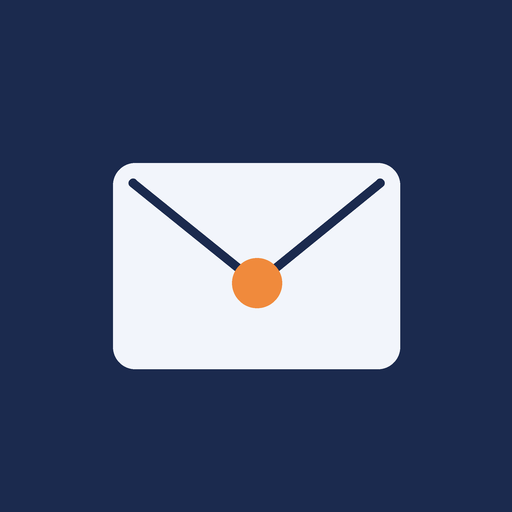
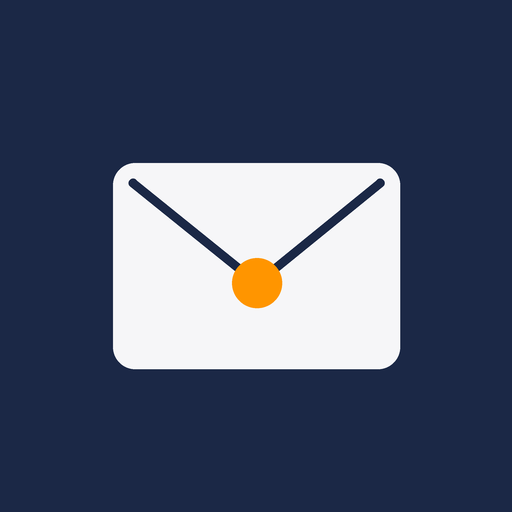
색상 변경: Kerry님이 고른 조합 적용 (네이비 #1B2846, 등록 #2F5FD0, 금액 #EDEDED, 포인트 #FF9500), 아이콘·테마색 갱신, SW v9
Claude-Session: https://claude.ai/code/session_01FkaSdFgY2f1Ht2HbCiHGTs

Changed region(s): [[0.4375, 0.5, 0.5625, 0.625]]

diff --git a/index.html b/index.html
@@ -4,7 +4,7 @@
   <meta charset="utf-8">
   <meta name="viewport" content="width=device-width, initial-scale=1, viewport-fit=cover">
   <title>축의금 접수</title>
-  <meta name="theme-color" content="#1b2a4e">
+  <meta name="theme-color" content="#1B2846">
   <meta name="apple-mobile-web-app-capable" content="yes">
   <meta name="mobile-web-app-capable" content="yes">
   <meta name="apple-mobile-web-app-title" content="축의금 접수">
@@ -14,24 +14,26 @@
   <link rel="icon" type="image/png" href="icon-192.png">
   <style>
     :root {
-      /* 색 역할 (Material 3 방식) — 네이비 기준색에서 파생, 글자 대비 4.5:1 이상 */
-      --surface: #f2f5fb;            /* 앱 배경 */
+      /* 색 역할 — Kerry님이 고른 조합 (기준색에서 면·테두리 색을 파생). 글자 대비 4.5:1 이상 */
+      --surface: #F6F6F8;            /* 앱 배경 */
       --surface-card: #fff;          /* 카드 */
-      --surface-tonal: #eaf0fc;      /* 톤 버튼·보조 면 */
-      --on-surface: #1b2a4e;         /* 본문 글자 */
-      --on-surface-variant: #5a6682; /* 보조 글자 */
-      --outline: #cbd3e6;            /* 테두리 */
-      --outline-soft: #dfe5f2;       /* 구분선 */
-      --primary: #137a51;            /* 핵심 동작(등록·확인) */
+      --surface-tonal: #EDEEF0;      /* 톤 버튼·보조 면 */
+      --on-surface: #1B2846;         /* 본문 글자 */
+      --on-surface-variant: #646D81; /* 보조 글자 */
+      --outline: #D1D4DA;            /* 테두리 */
+      --outline-soft: #E1E3E7;       /* 구분선 */
+      --press: #DDDFE3;              /* 눌렀을 때 */
+      --primary: #2F5FD0;            /* 핵심 동작(등록·확인) */
       --on-primary: #fff;
-      --secondary: #1b2a4e;          /* 보조 강조(앱 바·더하기) */
+      --success: #137a51;            /* 완료 안내 글자 */
+      --secondary: #1B2846;          /* 보조 강조(더하기·설치) */
       --on-secondary: #fff;
-      --tertiary: #f08a3c;           /* 포인트(포커스·선택) */
-      --tertiary-container: #fff0e3;
-      --amount: #fff3cf; --amount-line: #f2c14e; --amount-press: #ffe39a; /* 금액 버튼 */
+      --tertiary: #FF9500;           /* 포인트(포커스·선택) */
+      --tertiary-container: #FFF2E0;
+      --amount: #EDEDED; --amount-line: #C7C7C7; --amount-press: #DFDFDF; /* 금액 버튼 */
       --error: #c0392b; --error-container: #fdecea;
-      --groom: #2f5fd0; --groom-soft: #8fb0ff; --bride: #8a4fd0; --bride-soft: #c9a6f5;
-      --navy: #1b2a4e; --navy-deep: #121c38;
+      --groom: #3B6FD8; --groom-soft: #9DB7EC; --bride: #B0508A; --bride-soft: #D8A8C4;
+      --navy: #1B2846; --navy-deep: #121A2E;
       /* 모양·크기 */
       --r-card: 20px; --r-btn: 14px; --r-field: 14px;
       --touch: 48px;                 /* 최소 터치 높이 */
@@ -54,7 +56,7 @@
     .btn-filled { background: var(--primary); color: var(--on-primary); font-weight: 800; }
     .btn-filled:active { filter: brightness(.9); }
     .btn-tonal { background: var(--surface-tonal); color: var(--on-surface); font-weight: 700; }
-    .btn-tonal:active { background: #dbe5f8; }
+    .btn-tonal:active { background: var(--press); }
     .btn-outlined { border: 2px solid var(--outline); background: var(--surface-card); font-weight: 700; }
     .btn-outlined:active { background: var(--surface-tonal); }
     .btn-text { color: var(--groom); font-weight: 700; padding: 0 12px; }
@@ -68,15 +70,15 @@
       gap: 1px; background: var(--navy-deep); color: #fff; padding-top: env(safe-area-inset-top);
     }
     .stat { background: var(--navy); padding: 10px 16px; display: flex; flex-direction: column; min-width: 0; }
-    .stat .k { font-size: 13px; color: #b9c3dd; }
+    .stat .k { font-size: 13px; color: #c4cade; }
     .stat .k small { font-size: 12px; margin-left: 4px; color: #ffd9b8; white-space: nowrap; }
     .stat strong { font-size: 26px; line-height: 1.2; font-variant-numeric: tabular-nums; white-space: nowrap; }
-    .stat.side-label { border-top: 4px solid #6b7897; }
+    .stat.side-label { border-top: 4px solid #6f7890; }
     .stat.side-label strong { font-size: 22px; }
     body[data-side=groom] .stat.side-label { border-top-color: var(--groom-soft); }
     body[data-side=bride] .stat.side-label { border-top-color: var(--bride-soft); }
 
-    .install-bar { display: flex; align-items: center; flex-wrap: wrap; gap: 8px 12px; padding: 10px 16px; background: #eaf0fe; border-bottom: 1px solid #cddafa; font-size: 15px; }
+    .install-bar { display: flex; align-items: center; flex-wrap: wrap; gap: 8px 12px; padding: 10px 16px; background: var(--surface-tonal); border-bottom: 1px solid var(--outline-soft); font-size: 15px; }
     .install-bar[hidden], .overlay[hidden] { display: none; }
     .install-bar span { flex: 1 1 240px; }
     .install-btn { padding: 0 18px; background: var(--secondary); color: var(--on-secondary); font-weight: 800; }
@@ -116,13 +118,13 @@
     .meal-grid { display: grid; grid-template-columns: 1fr 1fr; gap: 12px; }
     .stepper-name { display: block; margin-bottom: 4px; font-weight: 800; }
     .stepper { display: grid; grid-template-columns: 56px 1fr 56px; gap: 6px; align-items: center; }
-    .stepper button { min-height: 56px; font-size: 30px; font-weight: 700; background: var(--surface-tonal); border: 2px solid #cfdaf1; }
+    .stepper button { min-height: 56px; font-size: 30px; font-weight: 700; background: var(--surface-tonal); border: 2px solid var(--outline); }
     .stepper output { text-align: center; font-size: 26px; font-weight: 800; font-variant-numeric: tabular-nums; white-space: nowrap; }
 
     /* 등록 줄: 입력 카드가 길어도 항상 화면 아래에 고정되어 보인다 */
     .submit-bar { position: sticky; bottom: 0; margin: 0 -18px; padding: 10px 18px 18px; background: var(--surface-card); border-radius: 0 0 var(--r-card) var(--r-card); box-shadow: 0 -8px 10px -8px rgba(27,42,78,.18); }
     .msg { min-height: 1.4em; margin: 0 0 6px; color: var(--error); font-weight: 700; }
-    .msg.ok { color: var(--primary); }
+    .msg.ok { color: var(--success); }
     .msg:empty { display: none; }
     .primary { width: 100%; min-height: 68px; font-size: 22px; }
 
@@ -154,7 +156,7 @@
     }
     .toast:not(:has(button)) { padding-right: 18px; }
     .toast[hidden] { display: none; }
-    .toast-btn { padding: 0 14px; color: #ffb347; font-weight: 800; }
+    .toast-btn { padding: 0 14px; color: #FFB347; font-weight: 800; }
 
     .overlay { position: fixed; inset: 0; z-index: 30; display: flex; align-items: center; justify-content: center; padding: 16px; background: rgba(0,0,0,.45); overflow-y: auto; }
     .sheet { width: 100%; max-width: 460px; background: var(--surface-card); border-radius: 28px; padding: 24px; margin: auto; }
@@ -173,7 +175,7 @@
     #export-dialog .row .btn-outlined { min-height: 56px; font-size: 17px; }
 
     /* 첫 실행 시 이 기기의 측 선택 */
-    #side-setup { z-index: 40; background: rgba(18, 28, 56, .94); }
+    #side-setup { z-index: 40; background: rgba(18, 26, 46, .94); }
     .setup-btns { display: grid; grid-template-columns: 1fr 1fr; gap: 12px; }
     .setup-btn { min-height: 96px; font-size: 24px; font-weight: 800; color: #fff; }
     .setup-btn.groom { background: var(--groom); }

diff --git a/sw.js b/sw.js
@@ -1,6 +1,6 @@
 /* 오프라인 캐시: 앱 파일을 먼저 캐시에서 불러오고, 백그라운드에서 최신본으로 갱신한다.
    앱 파일을 수정해 배포할 때는 CACHE 버전을 올려 주세요. */
-const CACHE = 'gift-v8';
+const CACHE = 'gift-v9';
 const ASSETS = [
   './',
   './index.html',
